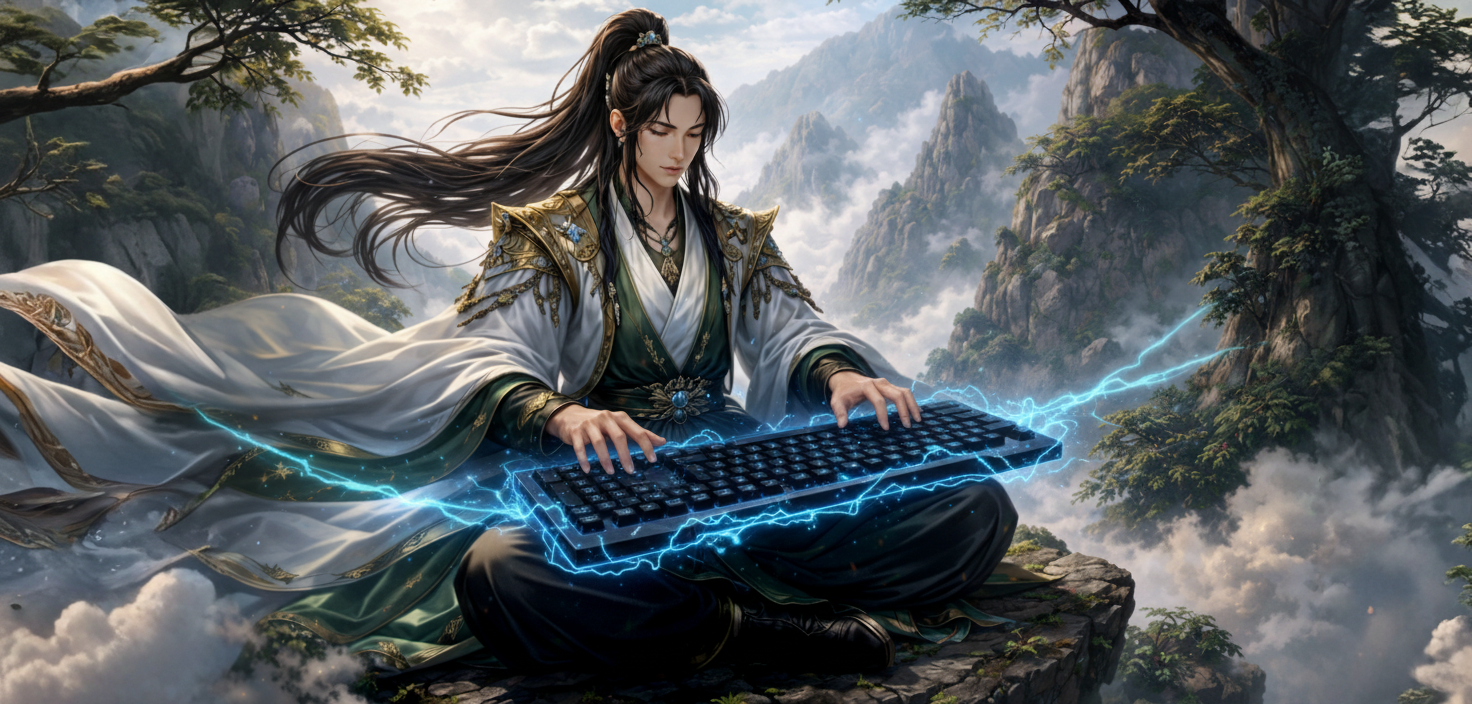
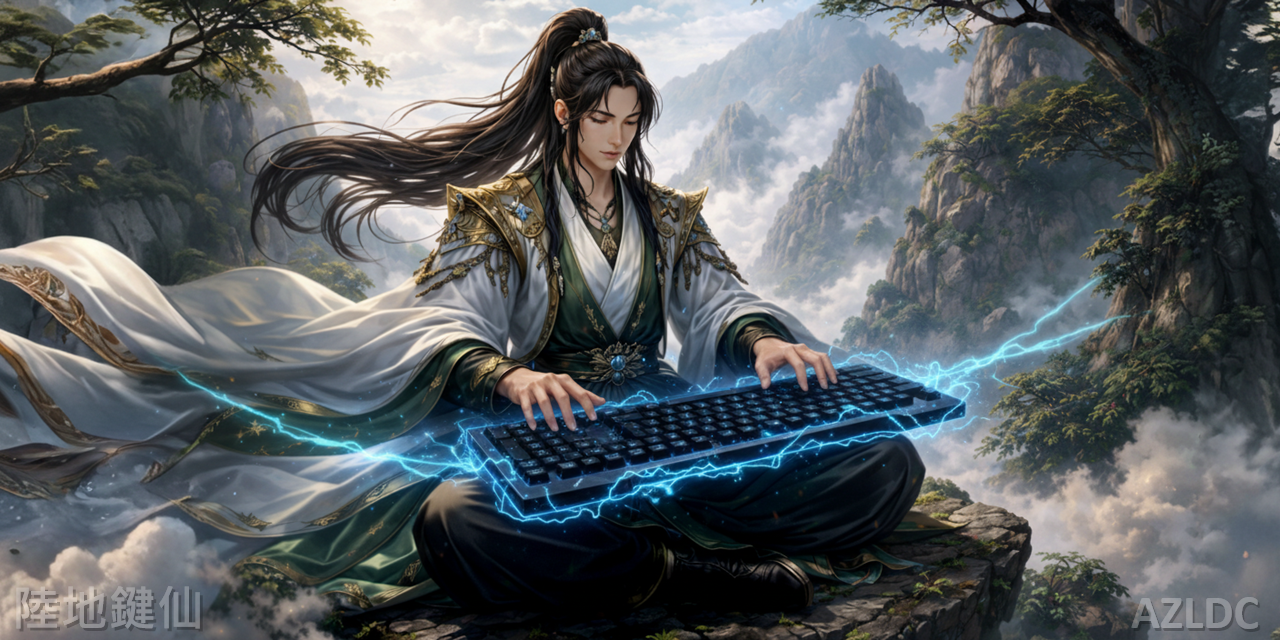
標題圖 & 浮水印

diff --git a/README.md b/README.md
@@ -4,6 +4,8 @@
 
 本工具會讀寫目前使用者登錄檔中的 `Enable Simplified Chinese Output`，並同步更新托盤圖示與提示文字。
 
+![陸地鍵仙意象圖](./陸地鍵仙.png)
+
 ## 非官方聲明
 本專案為社群工具，非 Microsoft 官方產品，與 Microsoft 無隸屬、合作或背書關係。
 
